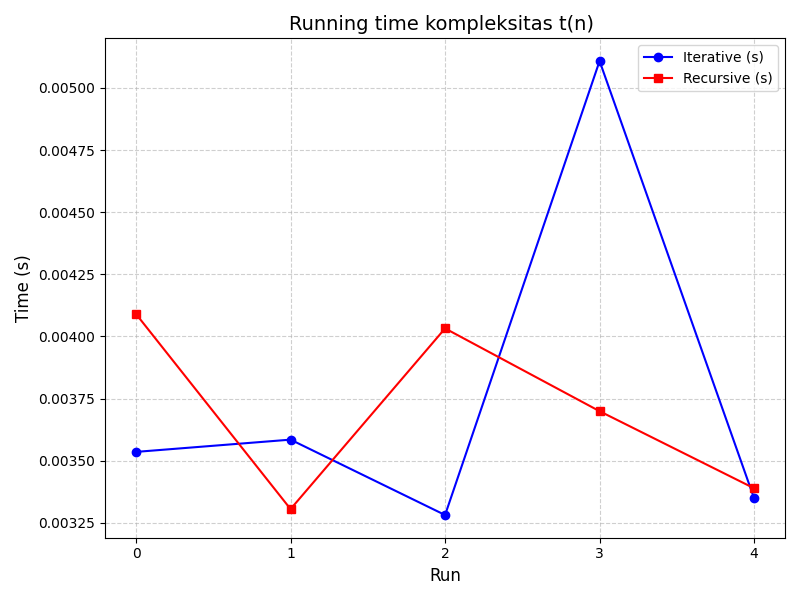
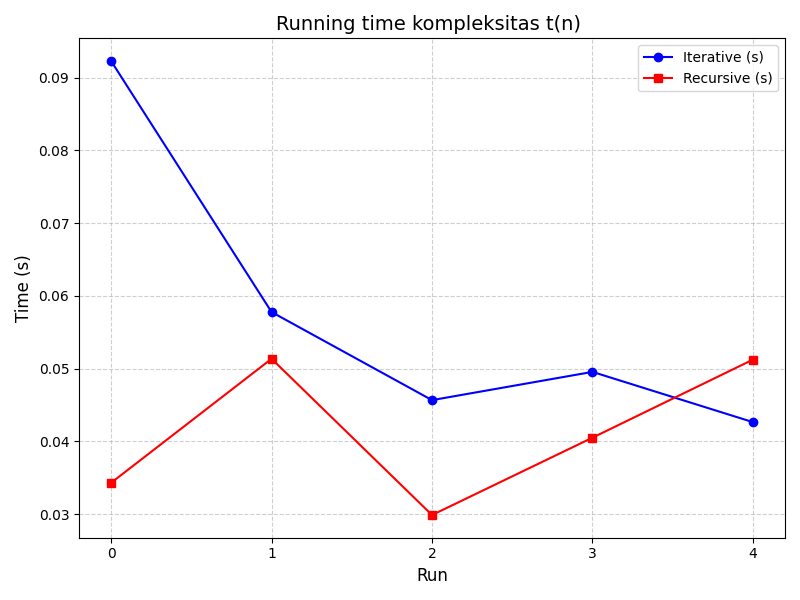
tubes

diff --git a/main.py b/main.py
@@ -1,38 +1,34 @@
 import pandas as pd
 import time
 
-def merge(left, right, key):
-    merged = []
-    i = j = 0
-    while i < len(left) and j < len(right):
-        if left[i][key] <= right[j][key]:
-            merged.append(left[i])
-            i += 1
-        else:
-            merged.append(right[j])
-            j += 1
-    merged.extend(left[i:])
-    merged.extend(right[j:])
-    return merged
-
-def merge_sort_iterative(arr, key):
-    n = len(arr)
-    width = 1
-    while width < n:
-        for i in range(0, n, 2 * width):
-            left = arr[i:i + width]
-            right = arr[i + width:i + 2 * width]
-            arr[i:i + 2 * width] = merge(left, right, key)
-        width *= 2
+# Fungsi Insertion Sort Iteratif
+def insertion_sort_iterative(arr, key):
+    for i in range(1, len(arr)):
+        current_element = arr[i]
+        j = i - 1
+        # Geser elemen yang lebih besar dari current_element
+        while j >= 0 and arr[j][key] > current_element[key]:
+            arr[j + 1] = arr[j]
+            j -= 1
+        arr[j + 1] = current_element
     return arr
 
-def merge_sort_recursive(arr, key):
-    if len(arr) <= 1:
-        return arr
-    mid = len(arr) // 2
-    left = merge_sort_recursive(arr[:mid], key)
-    right = merge_sort_recursive(arr[mid:], key)
-    return merge(left, right, key)
+# Fungsi Insertion Sort Rekursif
+def insertion_sort_recursive(arr, n, key):
+    # Base case: jika array hanya berisi 1 elemen
+    if n <= 1:
+        return
+
+    # Sort n-1 elemen pertama
+    insertion_sort_recursive(arr, n - 1, key)
+
+    # Sisipkan elemen terakhir ke posisi yang sesuai
+    last = arr[n - 1]
+    j = n - 2
+    while j >= 0 and arr[j][key] > last[key]:
+        arr[j + 1] = arr[j]
+        j -= 1
+    arr[j + 1] = last
 
 
 if __name__ == "__main__":
@@ -56,12 +52,15 @@ if __name__ == "__main__":
     results = []
 
     for i in range(5):
+        # Insertion Sort Iteratif
         start_time_iterative = time.perf_counter()
-        merge_sort_iterative(products.copy(), key)
+        insertion_sort_iterative(products.copy(), key)
         execution_time_iterative = time.perf_counter() - start_time_iterative
 
+        # Insertion Sort Rekursif
         start_time_recursive = time.perf_counter()
-        merge_sort_recursive(products.copy(), key)
+        products_copy = products.copy()
+        insertion_sort_recursive(products_copy, len(products_copy), key)
         execution_time_recursive = time.perf_counter() - start_time_recursive
 
         results.append((execution_time_iterative, execution_time_recursive))
